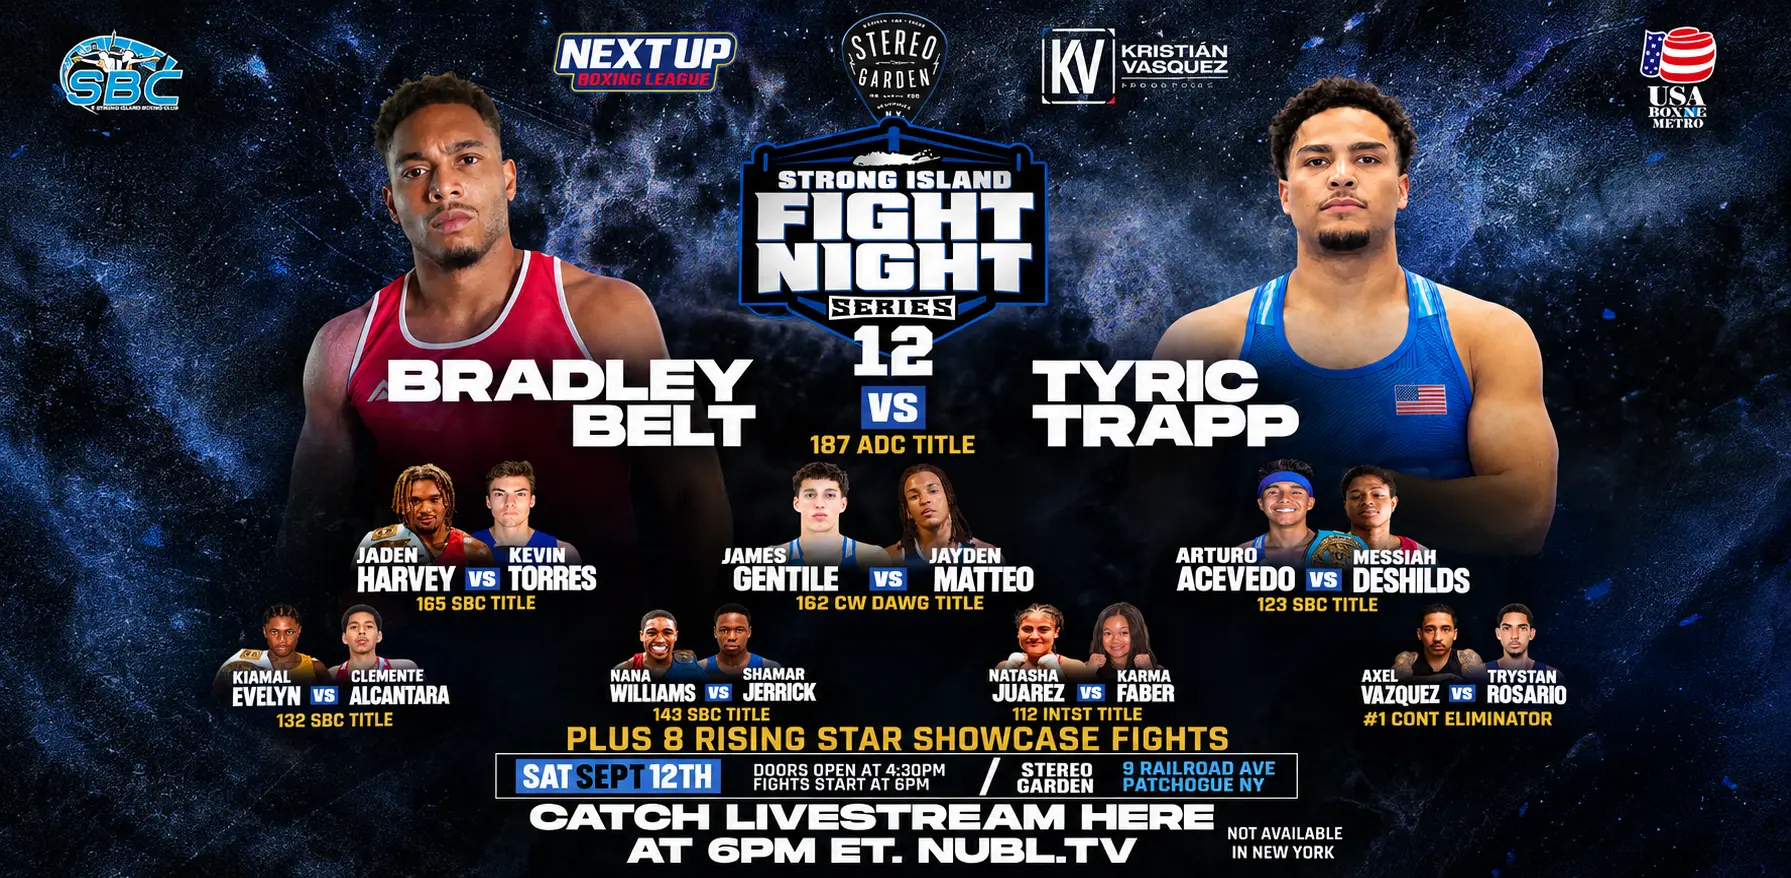
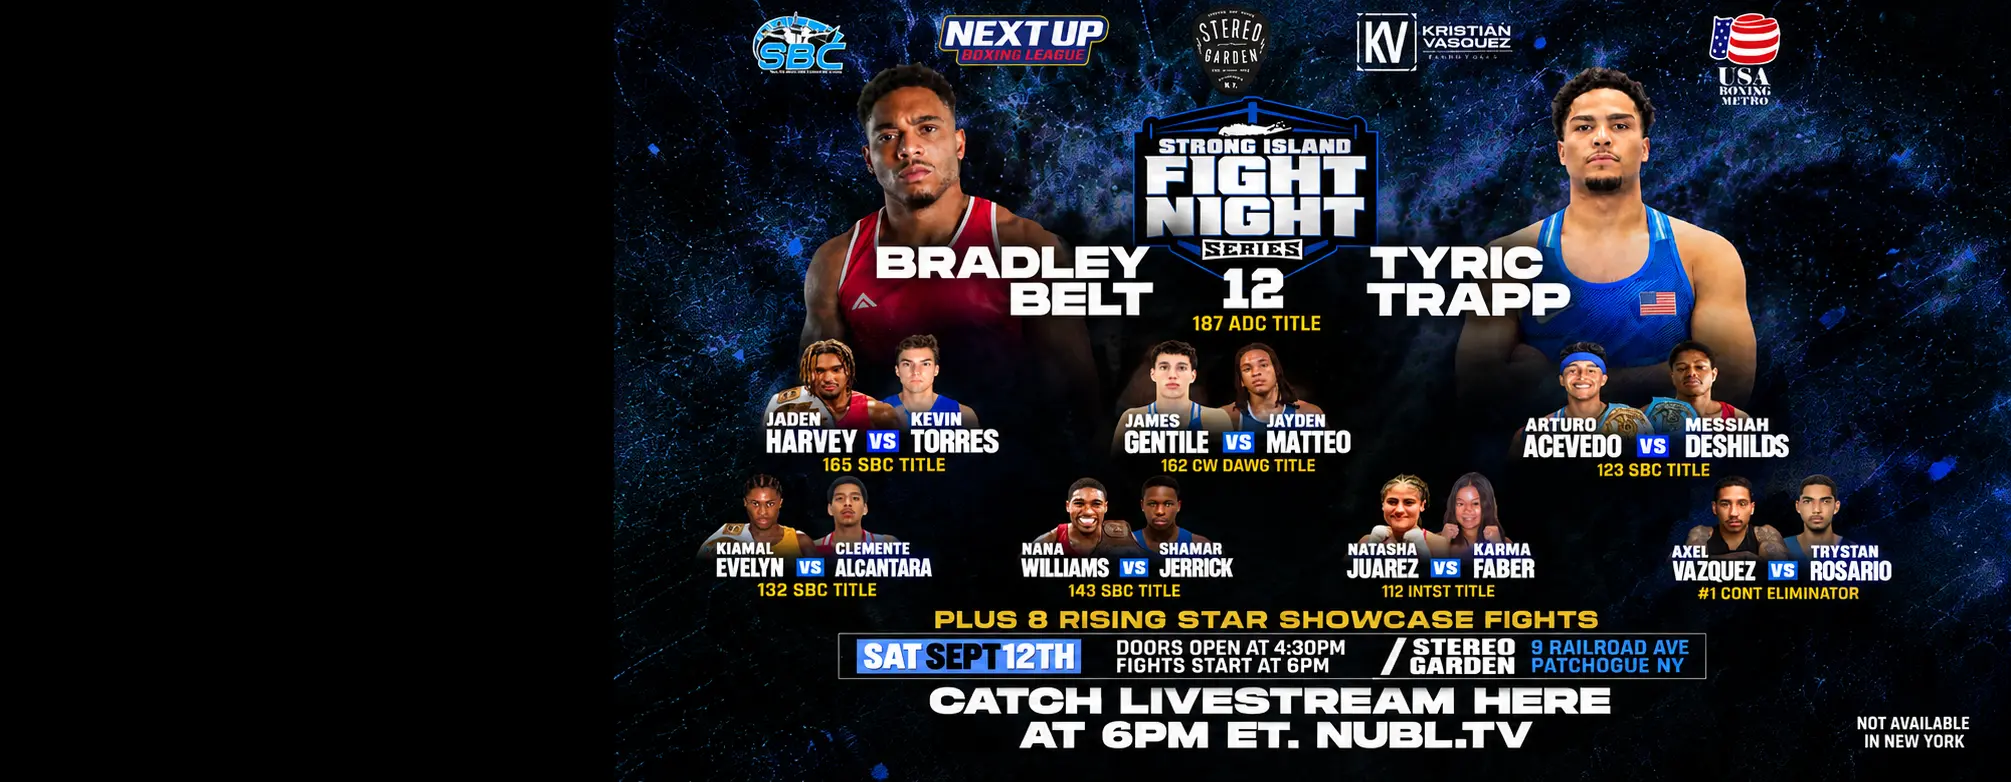
Update hero poster image, size container to its 2011x782 crop
New poster crop replaces the previous image. Container now uses
aspect-[2011/782] with object-cover so the image fully fills the
space at that ratio instead of the old fixed-vh/object-contain sizing.

diff --git a/components/HeroSection.tsx b/components/HeroSection.tsx
@@ -73,14 +73,14 @@ export function HeroSection() {
 
         {/* Poster */}
         <Reveal as="fade-in" className="order-1 lg:order-2">
-          <div className="relative h-[46vh] w-full sm:h-[54vh] lg:h-[78vh]">
+          <div className="relative w-full aspect-[2011/782]">
             <Image
               src="/12-sept-poster.webp"
               alt="Strong Island Fight Night 12 — September 12 event poster"
               fill
               priority
               sizes="(min-width: 1024px) 50vw, 100vw"
-              className="object-contain object-center"
+              className="object-cover object-center"
             />
           </div>
         </Reveal>
